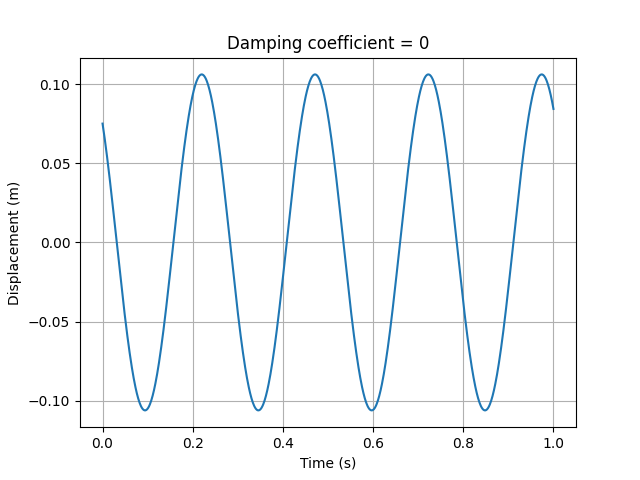
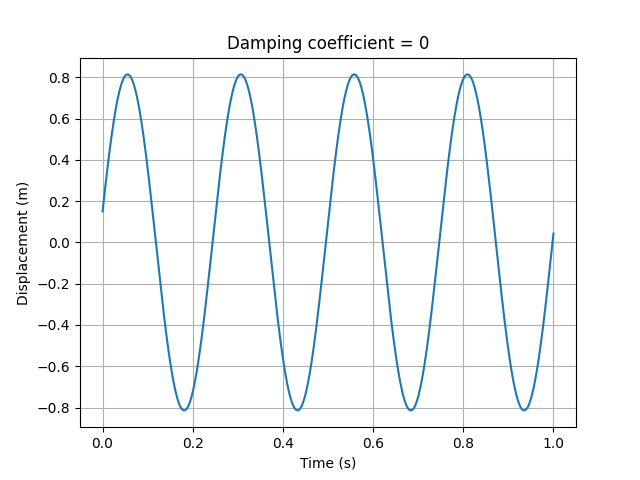
question1 edit

diff --git a/question1.py b/question1.py
@@ -13,7 +13,7 @@ def sol_eqn(x0,v0,t,m,k,c):
     #returns the displacement and velocity of the mass at time t
     roots = charac_roots(m,k,c)
     if roots[0].imag != 0 and roots[1].imag != 0:#complex roots case underdamped
-        A = np.array([[1,1],[roots[0],roots[1]]],dtype=complex)
+        A = np.array([[1,0],[roots[0].real,roots[1].imag]])
         B = np.array([x0,v0])
         const=np.linalg.inv(A).dot(B) #finding the constants of the solution using inverse matrix of A and multiplying by B
         return np.exp(roots[0].real*t)*(const[0]*np.cos(roots[0].imag*t)+const[1]*np.sin(roots[0].imag*t))#x(t)=e^(lambda1t)(C1*cos(omega1t)+C2*sin(omega1t))
@@ -49,4 +49,5 @@ k=2500
 c=[0,100,200,400]
 nfig=['1.1','1.2','1.3','1.4']
 for i in range(len(c)):
+    print(charac_roots(m,k,c[i]))
     plot_sol(x0,v0,t,m,k,c[i],nfig[i])
